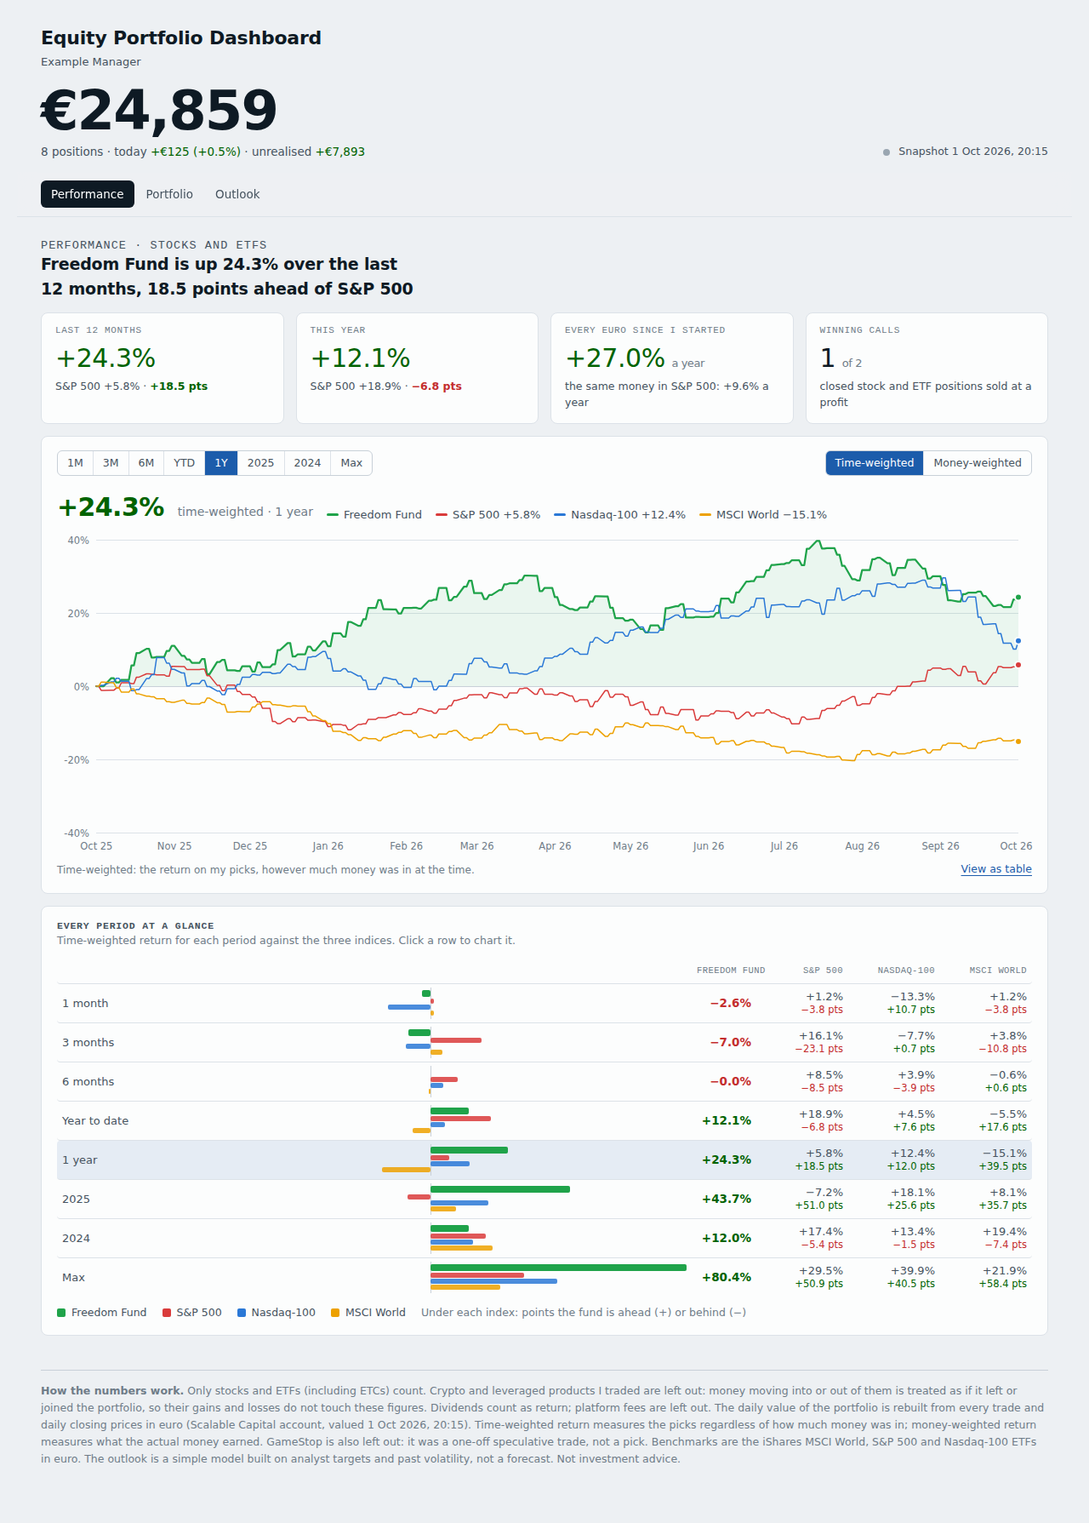
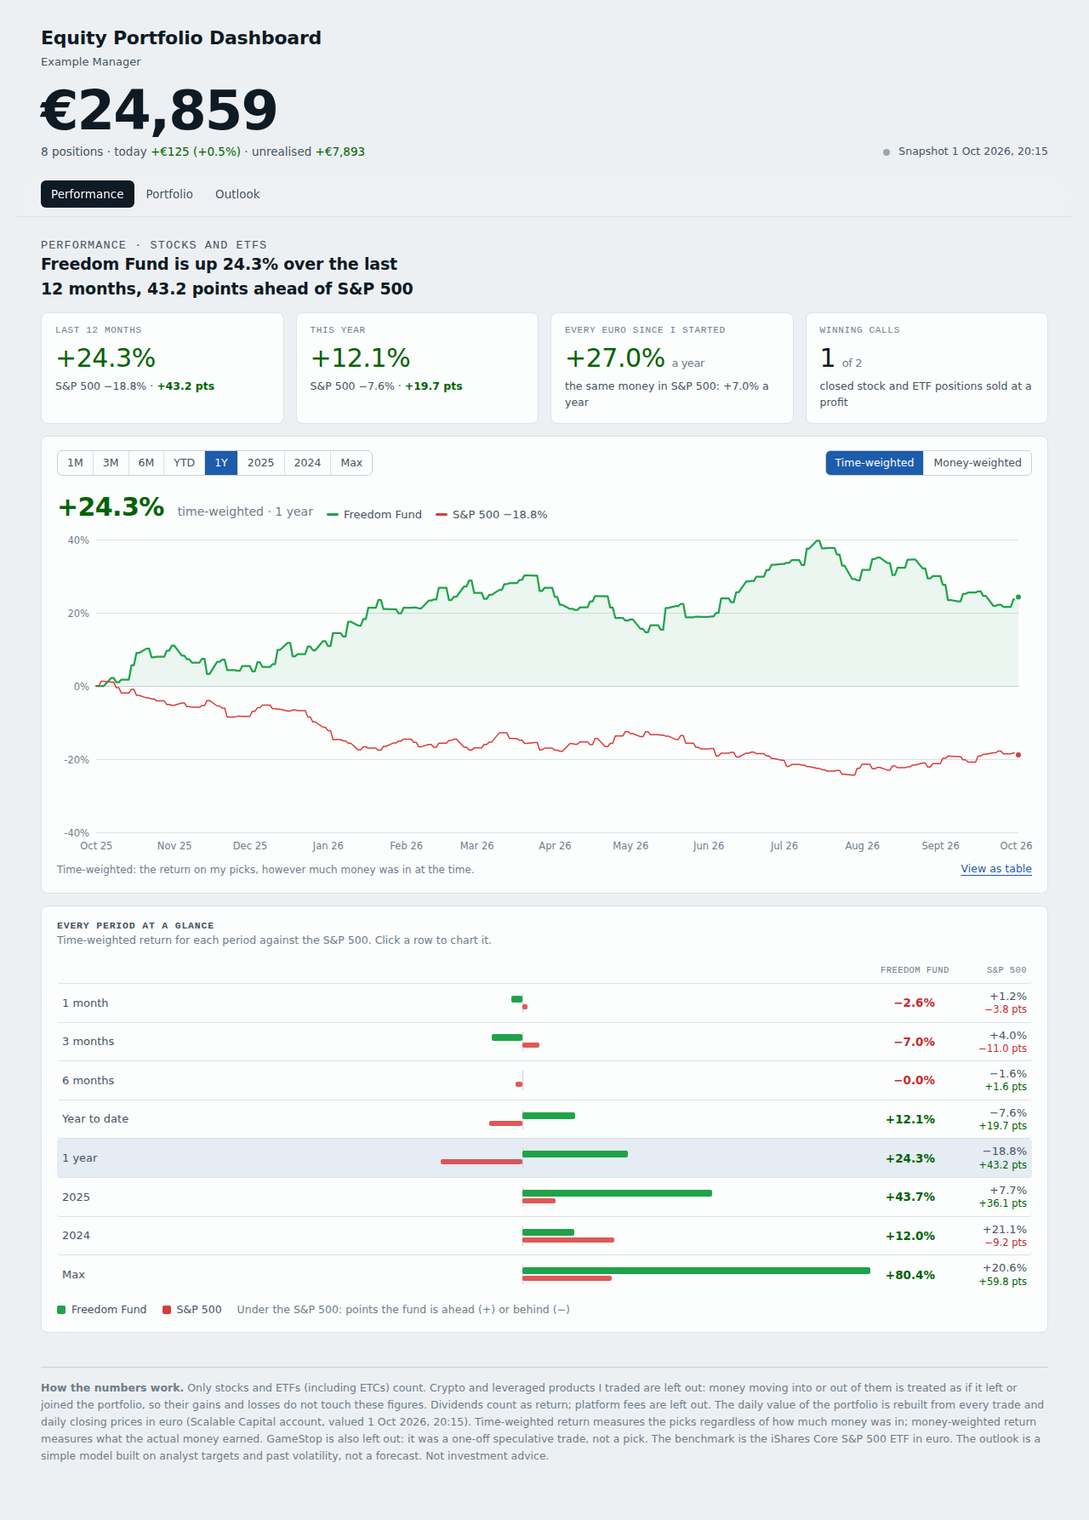
S&P 500 as the only benchmark
Remove Nasdaq-100 and MSCI World from the data pipeline, charts, period bars, Outlook and
README, and the benchmark toggle on the Outlook tab.

Claude-Session: https://claude.ai/code/session_01ABTLXaQmWwDDpoTxDco2CE

diff --git a/src/page/views.js b/src/page/views.js
@@ -4,7 +4,7 @@ const holdingBy = (isin) => M.H.find((h) => h.isin === isin);
 const perfOf = (h, p) => (h.perf && h.perf[p] ? h.perf[p][0] : null);
 const pctSpan = (x, d = 1) => `<span class="${cls(x)} num">${fmtSignedPct(x, d)}</span>`;
 const eur0Span = (x) => `<span class="${cls(x)} num">${x > 0 ? '+' : ''}${fmtEUR0(x)}</span>`;
-const BSHORT = { MSCI: 'MSCI World', SPX: 'S&P 500', NDX: 'Nasdaq-100' };
+const BSHORT = { SPX: 'S&P 500' };
 const prOf = () => PRESETS[state.preset].p;
 const pts = (x, d = 1) => (x == null ? '–' : `${x >= 0 ? '+' : '−'}${Math.abs(x * 100).toFixed(d)} pts`);
 
@@ -52,7 +52,7 @@ function setTab(id, push) {
 /* =====================================================================
    TRACK RECORD
    ===================================================================== */
-const IDX_COLOR = { MSCI: 'var(--msci)', SPX: 'var(--spx)', NDX: 'var(--ndx)' };
+const IDX_COLOR = { SPX: 'var(--spx)' };
 const FUND = 'Freedom Fund';
 const idxName = (id) => (M.D.indices.find((x) => x.id === id) || { name: id }).name;
 const kpi = (k, v, c, n) => `<div class="kpi"><div class="k">${k}</div><div class="v ${c || ''}">${v}</div><div class="n">${n || ''}</div></div>`;
@@ -61,7 +61,7 @@ const vsIdx = (you, idx, name) => { const e = you - idx; return `${esc(name)} ${
 function renderRecord() {
   const root = $('#t-record'); unmountWithin(root);
   const D = M.D, PF = M.perf;
-  const sel = ['SPX', 'NDX', 'MSCI'].filter((id) => D.indices.some((x) => x.id === id)), gsel = sel; // every benchmark is always shown
+  const sel = ['SPX'], gsel = sel; // the S&P 500 is the only benchmark
   const primary = sel[0], pName = idxName(primary); // statements always refer to the S&P 500
   const st = PF.stats(state.tf);
   const all = TF.map(([k]) => PF.stats(k));
@@ -91,14 +91,14 @@ function renderRecord() {
   </div>
 
   <div class="panel" style="margin-top:14px">
-    <h3>Every period at a glance</h3><p class="sub">Time-weighted return for each period against the three indices. Click a row to chart it.</p>
+    <h3>Every period at a glance</h3><p class="sub">Time-weighted return for each period against the S&P 500. Click a row to chart it.</p>
     <div class="pbars" style="--ni:${gsel.length}">
       <div class="pb pb-h"><span class="pl"></span><span class="pt"></span><span class="pv">${FUND}</span>${gsel.map((id) => `<span class="pi">${esc(BSHORT[id] || idxName(id))}</span>`).join('')}</div>
       ${all.map((s) => { const mx = Math.max(...all.map((q) => Math.max(Math.abs(q.twr), ...gsel.map((id) => Math.abs(q.idx[id].twr))))) || 1; const bar = (x) => { const w = (Math.abs(x) / mx) * 50; return x < 0 ? `right:50%;width:${w}%` : `left:50%;width:${w}%`; };
       return `<button class="pb${s.k === state.tf ? ' on' : ''}" data-tf="${s.k}"><span class="pl">${esc(TFL[s.k])}</span>
         <span class="pt" style="height:${10 + gsel.length * 7}px"><i class="z"></i><i class="b you" style="top:0;${bar(s.twr)}"></i>${gsel.map((id, j) => `<i class="b idx" style="top:${10 + j * 7}px;background:${IDX_COLOR[id]};${bar(s.idx[id].twr)}"></i>`).join('')}</span>
         <span class="pv ${cls(s.twr)}">${fmtSignedPct(s.twr, 1)}</span>${gsel.map((id) => { const e = s.twr - s.idx[id].twr; return `<span class="pi">${fmtSignedPct(s.idx[id].twr, 1)}<small class="${cls(e)}">${e >= 0 ? '+' : '−'}${Math.abs(e * 100).toFixed(1)} pts</small></span>`; }).join('')}</button>`; }).join('')}</div>
-    <div class="legend" style="margin:10px 0 0"><span><i class="sw" style="background:var(--fund)"></i>${FUND}</span>${gsel.map((id) => `<span><i class="sw" style="background:${IDX_COLOR[id]}"></i>${esc(idxName(id))}</span>`).join('')}<span class="muted">Under each index: points the fund is ahead (+) or behind (−)</span></div>
+    <div class="legend" style="margin:10px 0 0"><span><i class="sw" style="background:var(--fund)"></i>${FUND}</span>${gsel.map((id) => `<span><i class="sw" style="background:${IDX_COLOR[id]}"></i>${esc(idxName(id))}</span>`).join('')}<span class="muted">Under the S&P 500: points the fund is ahead (+) or behind (−)</span></div>
   </div>`;
 
   $$('#t-record [data-tf]').forEach((b) => b.addEventListener('click', () => { state.tf = b.dataset.tf; renderRecord(); }));
@@ -127,7 +127,7 @@ function renderRecord() {
   mount($('#perfchart'), (h, w) => {
     if (state.tableView.perf) { h.innerHTML = tableTwin(['Date'].concat(series.map((s) => s.label)), xs.map((t, i) => [dfmt(isoDay(t))].concat(series.map((s) => (s.v[i] == null ? '–' : tipVal(s.v[i])))))); return; }
     lineChart(h, w, {
-      x: xs, series, height: w < 520 ? 280 : 380, yFmt, zero: twr ? 0 : null, yMin: twr ? null : 0, aria: 'Freedom Fund against the S&P 500, Nasdaq-100 and MSCI World',
+      x: xs, series, height: w < 520 ? 280 : 380, yFmt, zero: twr ? 0 : null, yMin: twr ? null : 0, aria: 'Freedom Fund against the S&P 500',
       tip: (i) => `<div class="th">${dfmt(isoDay(xs[i]))}</div>${series.map((s) => (s.v[i] == null ? '' : trow(s.color, s.label, tipVal(s.v[i]), 1))).join('')}`,
     });
   });
@@ -236,7 +236,7 @@ function renderRisk() {
   const root = $('#t-risk'); unmountWithin(root);
   const R = M.risk, pr = prOf(), O = portOutlook(pr), V = M.secValue;
   if (!R) { root.innerHTML = '<div class="panel empty">The outlook needs 12 months of prices for every position.</div>'; return; }
-  const bench = M.D.benches.find((b) => b.id === state.obench) || M.D.benches[0];
+  const bench = M.D.benches.find((b) => b.id === 'SPX') || M.D.benches[0];
   const bName = BSHORT[bench.id] || bench.name;
   const n = state.hz, t = n / 12, hzL = HORIZONS.find((x) => x[0] === n)[2];
   const sigma = R.vol, bVol = R.bVol[bench.id], beta = R.pBeta[bench.id], rho = R.pCorr[bench.id];
@@ -252,7 +252,6 @@ function renderRisk() {
   <div class="lede"><div><p class="kicker">Outlook</p><h2>Where the ${FUND} could be ${n === 12 ? 'a year' : 'in ' + hzL} from now</h2></div></div>
   <div class="ctrls" style="margin-bottom:12px">
     <div class="seg" role="group" aria-label="Horizon">${HORIZONS.map(([k, l]) => `<button data-hz="${k}" aria-pressed="${k === n}">${l}</button>`).join('')}</div>
-    <div class="seg" role="group" aria-label="Benchmark">${['SPX', 'NDX', 'MSCI'].filter((id) => M.D.benches.some((b) => b.id === id)).map((id) => `<button data-ob="${id}" aria-pressed="${id === bench.id}">${esc(BSHORT[id])}</button>`).join('')}</div>
     <div class="seg" role="group" aria-label="Scenario odds">${Object.entries(PRESETS).map(([k, v]) => `<button data-pre="${k}" aria-pressed="${k === state.preset}">${v.label}</button>`).join('')}</div>
   </div>
   <div class="kpis4">
@@ -267,7 +266,6 @@ function renderRisk() {
   </div>`;
   $$('#t-risk [data-pre]').forEach((b) => b.addEventListener('click', () => { state.preset = b.dataset.pre; renderRisk(); }));
   $$('#t-risk [data-hz]').forEach((b) => b.addEventListener('click', () => { state.hz = +b.dataset.hz; renderRisk(); }));
-  $$('#t-risk [data-ob]').forEach((b) => b.addEventListener('click', () => { state.obench = b.dataset.ob; renderRisk(); }));
   const fo = { V0: V, mu: O.exp, sigma, months: n, t0: M.asOf, color: 'var(--fund)', ref: { mu: bMu, sigma: bVol, label: bName, color: IDX_COLOR[bench.id] }, aria: `Range of outcomes over ${hzL}` };
   mount($('#fan'), (host, w) => fanChart(host, w, Object.assign({ height: w < 520 ? 260 : 340 }, fo)));
 }
@@ -276,6 +274,6 @@ function renderRisk() {
 function renderNotes() {
   const D = M.D;
   $('#notes').innerHTML = `<div class="foot">
-    <p><b>How the numbers work.</b> Only stocks and ETFs (including ETCs) count. Crypto and leveraged products I traded are left out: money moving into or out of them is treated as if it left or joined the portfolio, so their gains and losses do not touch these figures. Dividends count as return; platform fees are left out. The daily value of the portfolio is rebuilt from every trade and daily closing prices in euro (Scalable Capital account, valued ${tfmt(D.meta.asOf)}). Time-weighted return measures the picks regardless of how much money was in; money-weighted return measures what the actual money earned. GameStop is also left out: it was a one-off speculative trade, not a pick. Benchmarks are the iShares MSCI World, S&P 500 and Nasdaq-100 ETFs in euro. The outlook is a simple model built on analyst targets and past volatility, not a forecast. Not investment advice.</p>
+    <p><b>How the numbers work.</b> Only stocks and ETFs (including ETCs) count. Crypto and leveraged products I traded are left out: money moving into or out of them is treated as if it left or joined the portfolio, so their gains and losses do not touch these figures. Dividends count as return; platform fees are left out. The daily value of the portfolio is rebuilt from every trade and daily closing prices in euro (Scalable Capital account, valued ${tfmt(D.meta.asOf)}). Time-weighted return measures the picks regardless of how much money was in; money-weighted return measures what the actual money earned. GameStop is also left out: it was a one-off speculative trade, not a pick. The benchmark is the iShares Core S&P 500 ETF in euro. The outlook is a simple model built on analyst targets and past volatility, not a forecast. Not investment advice.</p>
   </div>`;
 }

diff --git a/pipeline/make_sample.js b/pipeline/make_sample.js
@@ -31,7 +31,7 @@ const META = {
   CA2926717083: ['Energy Fuels', 'UUUU', 'Energy', 'Uranium & rare earths', 'Critical minerals', 0.7],
   US5533681012: ['MP Materials', 'MP', 'Materials', 'Rare earths', 'Critical minerals', 0.65],
 };
-const BENCH = [['MSCI', 'MSCI World', 'IE00B4L5Y983', 'iShares Core MSCI World (Acc)', 0.12], ['SPX', 'S&P 500', 'IE00B5BMR087', 'iShares Core S&P 500 (Acc)', 0.14], ['NDX', 'Nasdaq-100', 'IE00B53SZB19', 'iShares Nasdaq 100 (Acc)', 0.2]];
+const BENCH = [['SPX', 'S&P 500', 'IE00B5BMR087', 'iShares Core S&P 500 (Acc)', 0.14]];
 
 // one random walk per security across the monthly-then-daily calendar; the daily part feeds series.json
 function walk(vol, drift, start) {
@@ -96,7 +96,7 @@ const me = monthly.filter((d) => d !== '2026-10-01');
 fs.writeFileSync(path.join(out, 'prices_monthly.json'), JSON.stringify(Object.fromEntries(BENCH.map((b) => [b[2], { start: me[0].slice(0, 7), p: me.map((d) => +at(b[2], d).toFixed(4)) }]))));
 
 // long-run growth of each index (the real figures come from pipeline/fetch_index_history.js)
-fs.writeFileSync(path.join(out, 'index_history.json'), JSON.stringify(Object.fromEntries(BENCH.map((b, i) => [b[2], { sym: 'synthetic', from: '1989-01', to: '2026-09', years: 37.7, cagr: [0.06, 0.09, 0.14][i], basis: 'price index in US dollars, excluding dividends' }])), null, 1));
+fs.writeFileSync(path.join(out, 'index_history.json'), JSON.stringify(Object.fromEntries(BENCH.map((b, i) => [b[2], { sym: 'synthetic', from: '1989-01', to: '2026-09', years: 37.7, cagr: 0.09, basis: 'price index in US dollars, excluding dividends' }])), null, 1));
 
 const profile = JSON.parse(fs.readFileSync(path.join(__dirname, 'profile.template.json'), 'utf8'));
 fs.writeFileSync(path.join(out, 'profile.json'), JSON.stringify(profile, null, 1));

diff --git a/pipeline/build_data.js b/pipeline/build_data.js
@@ -25,14 +25,12 @@ function dailySeries(isins, asOfDay) {
   });
   return { dates, ref: 'daily closes (Yahoo Finance), euro', p };
 }
-const S = PD ? dailySeries(SNAP.holdings.map((h) => h.isin).concat(SNAP.benches.map((b) => b.isin)), SNAP.meta.asOf.slice(0, 10)) : rd('series.json');
+const S = PD ? dailySeries(SNAP.holdings.map((h) => h.isin).concat(SNAP.benches.filter((b) => b.id === 'SPX').map((b) => b.isin)), SNAP.meta.asOf.slice(0, 10)) : rd('series.json');
 const PM = fs.existsSync(path.join(dir, 'prices_monthly.json')) ? rd('prices_monthly.json') : {};
 const HIST = rd('history.json');
 // Benchmarks offered on the Performance tab (accumulating iShares ETFs in euro).
 const INDICES = [
-  { id: 'MSCI', name: 'MSCI World', isin: 'IE00B4L5Y983', etf: 'iShares Core MSCI World' },
   { id: 'SPX', name: 'S&P 500', isin: 'IE00B5BMR087', etf: 'iShares Core S&P 500' },
-  { id: 'NDX', name: 'Nasdaq-100', isin: 'IE00B53SZB19', etf: 'iShares Nasdaq 100' },
 ].filter((x) => PM[x.isin] || (PD && PD[x.isin]));
 // Long-run annualised growth of each benchmark (pipeline/fetch_index_history.js), the Outlook's expected return.
 const IH = fs.existsSync(path.join(dir, 'index_history.json')) ? rd('index_history.json') : {};
@@ -74,7 +72,7 @@ const realised = Object.entries(L.realised).map(([k, o]) => {
 const DATA = {
   meta: SNAP.meta,
   total: SNAP.total, cash: SNAP.cash, pl: SNAP.pl,
-  holdings, benches: SNAP.benches,
+  holdings, benches: SNAP.benches.filter((b) => b.id === 'SPX'),
   series: { dates: S.dates, ref: S.ref, p: S.p },
   indices: INDICES,
   benchMonthly: Object.fromEntries(INDICES.map((x) => [x.isin, PM[x.isin]])),

diff --git a/pipeline/fetch_index_history.js b/pipeline/fetch_index_history.js
@@ -1,6 +1,6 @@
-// Downloads the long-run monthly history of the three benchmark indices and stores each one's annualised
+// Downloads the S&P 500's long-run history and stores its annualised
 // growth rate (CAGR) from January 1989 to today. The Outlook tab uses these as each benchmark's expected return.
-// The ETFs on the page only start in 2009-10, so the long run uses the indices themselves (Yahoo Finance):
+// The ETF on the page only starts in 2009, so the long run uses the index itself (Yahoo Finance):
 // price indices in US dollars, which exclude dividends, like the analyst price targets they are compared with.
 // Output: <data dir>/index_history.json  { ISIN: { sym, from, to, years, cagr, basis } }
 // Usage:  node pipeline/fetch_index_history.js [data dir, default data/private] [from YYYY-MM, default 1989-01]
@@ -10,7 +10,7 @@ const dir = path.resolve(process.argv[2] || path.join(__dirname, '..', 'data', '
 const FROM = process.argv[3] || '1989-01';
 const UA = { 'User-Agent': 'Mozilla/5.0 (X11; Linux x86_64) AppleWebKit/537.36 (KHTML, like Gecko) Chrome/126 Safari/537.36' };
 // ETF ISIN on the page -> index it tracks
-const INDEX = { IE00B4L5Y983: '^990100-USD-STRD', IE00B5BMR087: '^GSPC', IE00B53SZB19: '^NDX' };
+const INDEX = { IE00B5BMR087: '^GSPC' };
 const wait = (ms) => new Promise((r) => setTimeout(r, ms));
 // last daily close on or before day t (ms), and the latest price
 async function closes(sym, t) {

diff --git a/src/page/style.css b/src/page/style.css
@@ -20,7 +20,7 @@
   --neg-fill: #d84a4a;
   --warn: #b77900;
   --cn: #9aa6b1;
-  --fund: #1fa34a; --ndx: #2a78d6; --spx: #d93b3b; --msci: #eda100;
+  --fund: #1fa34a; --spx: #d93b3b;
   --c1: #2a78d6; --c2: #eb6834; --c3: #1baf7a; --c4: #eda100; --c5: #e87ba4; --c6: #008300; --c7: #4a3aa7; --c8: #e34948;
   --gold: #9a7417;
   --radius: 8px;
@@ -32,7 +32,7 @@
     --line: #232e38; --line2: #33414d; --accent: #3987e5; --accent-soft: rgba(57, 135, 229, 0.16);
     --pos: #1fb852; --neg: #f27272; --pos-fill: #1f9d4b; --neg-fill: #c94545;
     --warn: #d69a1e; --cn: #66737f;
-    --fund: #2fbf62; --ndx: #3987e5; --spx: #e66767; --msci: #e0b100;
+    --fund: #2fbf62; --spx: #e66767;
     --c1: #3987e5; --c2: #d95926; --c3: #199e70; --c4: #c98500; --c5: #d55181; --c6: #008300; --c7: #9085e9; --c8: #e66767; --gold: #d4b25c;
   }
 }
@@ -42,7 +42,7 @@
   --line: #232e38; --line2: #33414d; --accent: #3987e5; --accent-soft: rgba(57, 135, 229, 0.16);
   --pos: #1fb852; --neg: #f27272; --pos-fill: #1f9d4b; --neg-fill: #c94545;
   --warn: #d69a1e; --cn: #66737f;
-  --fund: #2fbf62; --ndx: #3987e5; --spx: #e66767; --msci: #e0b100;
+  --fund: #2fbf62; --spx: #e66767;
     --c1: #3987e5; --c2: #d95926; --c3: #199e70; --c4: #c98500; --c5: #d55181; --c6: #008300; --c7: #9085e9; --c8: #e66767; --gold: #d4b25c;
 }
 

diff --git a/src/page/model.js b/src/page/model.js
@@ -17,7 +17,7 @@ const dayMs = (s) => Date.parse(s.length === 10 ? s + 'T12:00:00Z' : s.length ==
 
 /* ---------- state ---------- */
 const TABS = [['record', 'Performance'], ['book', 'Portfolio'], ['risk', 'Outlook']];
-const state = { tab: 'record', bench: 'MSCI', tf: '1Y', measure: 'twr', hz: 12, obench: 'SPX', open: null, preset: 'analyst', mode: 'snapshot', statusMsg: '', tableView: {}, commentary: {}, dbReady: false };
+const state = { tab: 'record', bench: 'SPX', tf: '1Y', measure: 'twr', hz: 12, open: null, preset: 'analyst', mode: 'snapshot', statusMsg: '', tableView: {}, commentary: {}, dbReady: false };
 /* scenario probabilities: bull, base, bear */
 const PRESETS = { analyst: { label: 'Consensus', p: [0.25, 0.5, 0.25] }, cautious: { label: 'Cautious', p: [0.15, 0.45, 0.4] }, stress: { label: 'Stress', p: [0.05, 0.35, 0.6] } };
 const REF_MU = 0.07; // assumed long-run annual return for the benchmark reference

diff --git a/research/comments.js b/research/comments.js
@@ -131,7 +131,7 @@ module.exports = {
     risks: [
       'Timing: Q2 revenue of $3.27bn missed expectations of about $3.37bn and the shares fell 17% on 29 July (27.9% across July). Management called it temporary, citing supply-chain congestion and multi-phase projects.',
       'Dependence on a few hyperscale customers.',
-      'High market sensitivity: beta of about 3 against MSCI World over the last year.',
+      'High market sensitivity: beta of about 3 against the broad market over the last year.',
     ],
     news: [
       ['2026-09-24', 'Agreed to acquire King Environmental Services to extend liquid-cooling services in Europe, the Middle East and Africa. Shares fell on the day.'],

diff --git a/pipeline/fetch_daily.js b/pipeline/fetch_daily.js
@@ -45,7 +45,7 @@ async function chart(sym, p1, p2) {
   const tx = loadTx(dir);
   const from = process.argv[3] || tx[0].date.slice(0, 10);
   const p1 = Math.floor(Date.parse(from + 'T00:00:00Z') / 1000) - 10 * 86400, p2 = Math.floor(Date.now() / 1000);
-  const INDEX = ['IE00B4L5Y983', 'IE00B5BMR087', 'IE00B53SZB19'];
+  const INDEX = ['IE00B5BMR087']; // iShares Core S&P 500 (Acc), the only benchmark
   const isins = Array.from(new Set(tx.filter((r) => r.isin && /buy|sell|exp/.test(r.kind)).map((r) => r.isin).concat(INDEX)));
   const fx = {};
   const toEur = async (ccy) => {

diff --git a/README.md b/README.md
@@ -10,9 +10,9 @@ answers three questions, one per tab:
 
 | Tab | Question it answers | What is on it |
 |---|---|---|
-| **Performance** | Have the picks made money, and against which index? | Four headline figures; a daily chart of time-weighted (TWR) or money-weighted (MWR) performance for 1M, 3M, 6M, YTD, 1Y, 2025, 2024 or Max (since inception) against the S&P 500, the Nasdaq-100 and MSCI World, which are always all shown; the headline statements refer to the S&P 500; *Every period at a glance* compares every period with all three indices |
+| **Performance** | Have the picks made money, and against which index? | Four headline figures; a daily chart of time-weighted (TWR) or money-weighted (MWR) performance for 1M, 3M, 6M, YTD, 1Y, 2025, 2024 or Max (since inception) against the S&P 500, the only benchmark; *Every period at a glance* compares every period with it |
 | **Portfolio** | What is owned and how is each position doing? | Per position: weight, share-price change over 1D, YTD and 1Y, unrealised gain in euro and in per cent, the 12-month target range (bear, weighted outcome, bull) and the consensus rating with the upside to the average target. Each opens to the thesis, the written kill-switch, bull and bear cases, industry and competitors, and the latest news |
-| **Outlook** | What could happen next? | A horizon toggle (3M, 6M, 1Y, 2Y, 3Y), a benchmark toggle (S&P 500, Nasdaq-100, MSCI World) and three sets of scenario odds (Consensus, Cautious, Stress) drive the expected return, the 9-in-10 range of outcomes, the chance of beating the benchmark, volatility and beta, and a range-of-outcomes chart |
+| **Outlook** | What could happen next? | A horizon toggle (3M, 6M, 1Y, 2Y, 3Y) and three sets of scenario odds (Consensus, Cautious, Stress) drive the expected return, the 9-in-10 range of outcomes, the chance of beating the S&P 500, volatility and beta, and a range-of-outcomes chart |
 
 ![Performance tab, built from the synthetic sample](docs/sample-record.png)
 
@@ -112,7 +112,7 @@ Every data directory, private or sample, holds the same files:
 | `snapshot.json` | Scalable connector: `get_portfolio_holdings`, `get_portfolio_overview`, `get_portfolio_cash_breakdown`, `get_security_quote`, `get_security_news` | Valuation time, total, cash, the broker's gain by period, each position (quantity, price, per-period performance, sector and theme) and the benchmark ETFs |
 | `series.json` | `get_security_chart`, one year | Fallback when `prices_daily.json` is absent (the synthetic sample uses it) |
 | `prices_daily.json`, `symbols.json` | `pipeline/fetch_daily.js` (Yahoo Finance chart data; `symbols.json` maps ISINs to tickers and can be edited) | Daily closing prices in euro for every instrument held and every index, from the first deposit |
-| `index_history.json` | `pipeline/fetch_index_history.js` (part of `npm run prices`) | Each benchmark index's annualised price growth since January 1989 (US dollars, excluding dividends), used as its expected return on the Outlook tab |
+| `index_history.json` | `pipeline/fetch_index_history.js` (part of `npm run prices`) | The S&P 500's annualised price growth since January 1989 (US dollars, excluding dividends), used as its expected return on the Outlook tab |
 | `prices_monthly.json` | `get_security_chart`, max, stored with `pipeline/add_prices.js` | Month-end prices for every index and for each instrument held at a month end, from the first deposit |
 | `splits.json` (optional) | By hand | Share splits, `{ISIN: [[YYYY-MM-DD, ratio]]}`. Chart prices are split-adjusted; ledger quantities before a split are not |
 | `history.json` | `pipeline/history.js` | Derived: the account value on every trading day |
@@ -154,7 +154,7 @@ at the end), so the size and timing of deposits do not affect the result.
 the value at the end of the period as the final cash flow.
 
 **Same money in the index.** This is a public market equivalent. Each cash flow is mirrored into the
-benchmark ETF (iShares Core MSCI World, Core S&P 500 or Nasdaq 100, all in euro) on the same day, at daily
+benchmark ETF (iShares Core S&P 500, in euro) on the same day, at daily
 closing prices. The result is what that money would be worth today, together with its own XIRR.
 
 **Cost basis.** First in, first out within each custody account. A custody transfer moves lots and keeps
@@ -173,10 +173,9 @@ average target, 25% bull. The three presets weight bull, base and bear at 25/50/
 
 **Range of outcomes.** A log-normal model: the median path is `V0 · exp((ln(1+μ) − σ²/2)·t)`, and the bands
 are the 5th, 25th, 75th and 95th percentiles. μ is the expected 12-month return under the chosen preset, assumed
-to repeat for horizons beyond a year, and σ the back-cast volatility. The selected benchmark is drawn at its own
-historical annualised growth since January 1989 (from `index_history.json`) with its own volatility. The ETFs
-on the page only start in 2009 and 2010, so the long run uses the indices themselves: MSCI World, S&P 500 and
-Nasdaq-100 price indices in US dollars. Like the analyst price targets behind the portfolio's expected return,
+to repeat for horizons beyond a year, and σ the back-cast volatility. The S&P 500 is drawn at its own
+historical annualised growth since January 1989 (from `index_history.json`) with its own volatility. The ETF
+on the page only starts in 2009, so the long run uses the index itself, in US dollars. Like the analyst price targets behind the portfolio's expected return,
 they exclude dividends. *Chance of beating* compares the two log-normal outcomes using the
 back-cast correlation between the portfolio and the benchmark. Real markets have fatter tails than this model.
 
